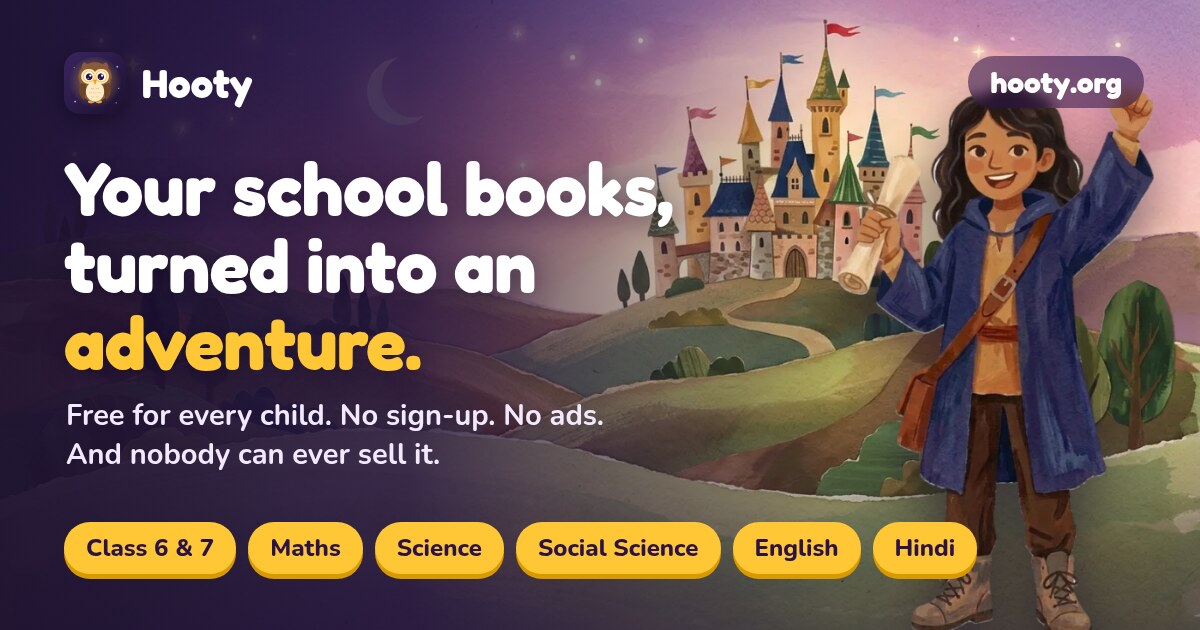
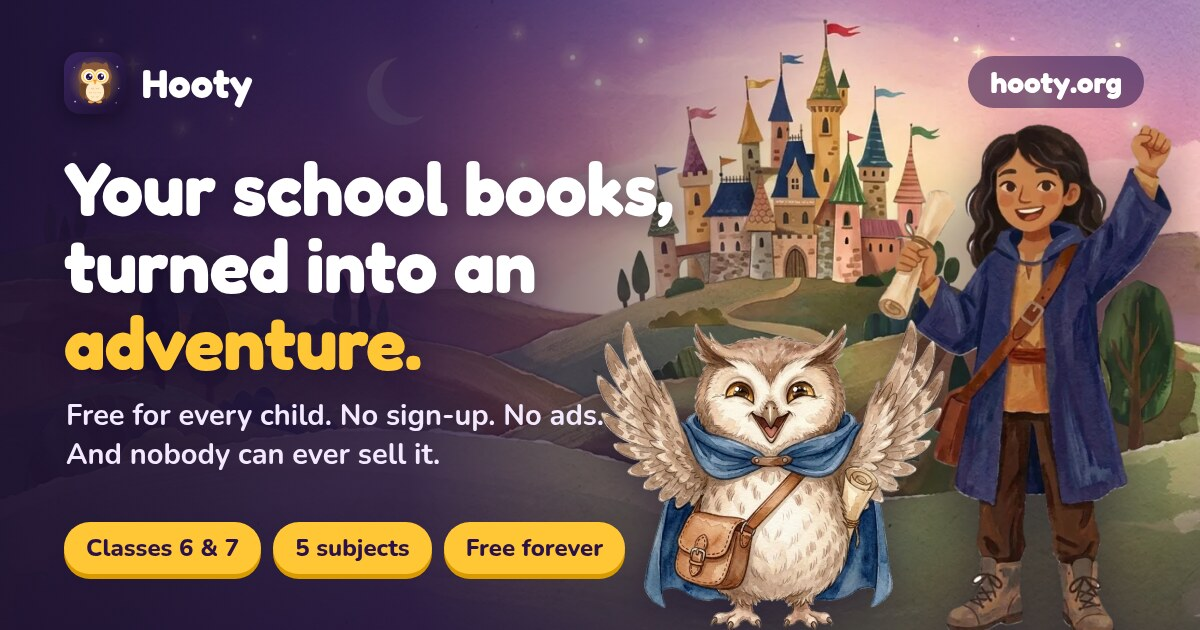
Add Hooty the owl as a second guide, chosen in Settings; sharing card with both characters

Changed region(s): [[0.1233, 0.1206, 0.9867, 1.0]]

diff --git a/public/engine/app.js b/public/engine/app.js
@@ -8,7 +8,7 @@ import { renderModel } from './core/models.js';
 import { state, boot, activeLearner, persist, addXP,
   heartsRegenerated, touchStreak, recordActivity, recordLesson, weakSpots,
   unlockReward, todayKey, exportSave, importSave } from './core/state.js';
-import { applyTheme, getTheme, themeAsset, assetFor, mascotImage, mascotAvatar, themeCopy } from './core/theme.js';
+import { applyTheme, getTheme, themeAsset, assetFor, mascotImage, mascotAvatar, themeCopy, setGuide, guideAvatarSrc } from './core/theme.js';
 import { t, setLocale, getLocale, availableLocales } from './core/i18n.js';
 import { getActivityModule } from './activities/index.js';
 import { icon } from './core/icons.js';
@@ -48,6 +48,7 @@ function applyLearnerPrefs() {
   document.body.classList.toggle('dyslexia-font', !!l.dyslexiaFont);
   document.body.classList.toggle('hl-on', l.highlight !== false);
   setLocale(l.lang || 'en');
+  setGuide(l.guide);
 }
 
 async function setTheme(id) {
@@ -1458,12 +1459,24 @@ function screenSettings() {
     render();
   });
 
+  const guidePicker = el('div', { class: 'guide-picker', role: 'radiogroup', 'aria-label': 'Your guide' },
+    [['hooty', 'Hooty'], ['lumi', 'Lumi']].map(([id, label]) => {
+      const on = (l?.guide || 'hooty') === id;
+      const b = el('button', { class: `guide-pick${on ? ' is-on' : ''}`, type: 'button', role: 'radio', 'aria-checked': String(on), 'aria-label': label }, [
+        el('img', { src: guideAvatarSrc(id), alt: '', width: '64', height: '64' }),
+        el('span', { text: label }),
+      ]);
+      b.addEventListener('click', async () => { l.guide = id; setGuide(id); await persist(); sound('tap'); render(); });
+      return b;
+    }));
+
   wrap.append(el('div', { class: 'settings' }, [
     row('Your name', null, nameField),
     row(t('sound'), 'Taps, chimes and a fanfare when you finish', soundSwitch),
     row(t('textSize'), 'Make everything bigger or smaller', range),
     row('Highlight key words', 'Important words get a marker-pen colour', hlSwitch),
     row(t('dyslexiaFont'), 'Wider, clearer letters', dysSwitch),
+    row('Your guide', 'Who walks beside you through every lesson', guidePicker),
     row(t('language'), null, langSel),
   ]));
 

diff --git a/public/engine/core/theme.js b/public/engine/core/theme.js
@@ -80,17 +80,29 @@ export function assetFor(theme, path) {
   return `${base}/${theme.id}/${path}`;
 }
 
+// Two guides walk beside the child. Hooty the owl is the default; Lumi the explorer is the original, kept as a choice.
+// The theme's own mascot paths still describe Lumi, so a theme can bring its own art without touching the owl.
+let guide = 'hooty';
+export function setGuide(g) { guide = g === 'lumi' ? 'lumi' : 'hooty'; }
+export function guideName() { return guide === 'lumi' ? 'Lumi' : 'Hooty'; }
+export function guideAvatarSrc(which, mood = 'idle') {
+  return which === 'lumi' ? `./characters/lumi/avatar-${mood}.webp` : `./characters/hooty/owl-avatar-${mood}.webp`;
+}
+
 export function mascotImage(mood = 'idle') {
-  if (!current?.mascot) return null;
+  if (!current) return null;
+  if (guide === 'hooty') return themeAsset(`../../characters/hooty/owl-${mood === 'happy' || mood === 'wrong' ? mood : 'idle'}.webp`);
+  if (!current.mascot) return null;
   const src = current.mascot[mood] || current.mascot.idle;
   return src ? themeAsset(src) : null;
 }
 
-// Round head-and-shoulders version of the same pose (avatar-<mood>.webp beside explorer-<mood>.webp),
-// padded so a circular frame never clips the hair.
+// Round head-and-shoulders version of the same pose (avatar-<mood>.webp beside explorer-<mood>.webp, or
+// owl-avatar-<mood>.webp beside owl-<mood>.webp), padded so a circular frame never clips the hair or the ears.
 export function mascotAvatar(mood = 'idle') {
   const full = mascotImage(mood);
-  return full ? full.replace(/explorer-/, 'avatar-') : null;
+  if (!full) return null;
+  return guide === 'hooty' ? full.replace(/owl-/, 'owl-avatar-') : full.replace(/explorer-/, 'avatar-');
 }
 
 export function themeCopy(tone, key, fallback = '') {

diff --git a/public/css/ui.css b/public/css/ui.css
@@ -1113,3 +1113,10 @@ button, a, input, select, label, summary, [role="button"], [role="tab"], [role="
 .addbook .finished__bar span { width: 0; transition: width 0.2s; }
 .addbook .finished__bar[hidden] { display: none; }
 .grade-tab--add { border-style: dashed; background: transparent; box-shadow: none; }
+
+/* ===== choose your guide ====================================================== */
+.guide-picker { display: flex; gap: var(--s3); }
+.guide-pick { display: flex; flex-direction: column; align-items: center; gap: 4px; padding: var(--s2) var(--s3); min-width: 88px; border-radius: var(--radius-lg); border: 3px solid transparent; background: var(--surface-alt, var(--surface)); color: var(--text); font: inherit; font-weight: 700; cursor: pointer; }
+.guide-pick img { width: 64px; height: 64px; border-radius: 50%; object-fit: cover; background: var(--bg); }
+.guide-pick.is-on { border-color: var(--primary); background: var(--primary-soft, var(--surface)); }
+.guide-pick:focus-visible { outline: 3px solid var(--text); outline-offset: 2px; }

diff --git a/public/engine/core/state.js b/public/engine/core/state.js
@@ -24,6 +24,7 @@ function freshLearner(name = 'Learner') {
     dailyXp: 0,
     dailyGoal: DAILY_GOAL_XP,
     theme: null,
+    guide: 'hooty',         // which character walks beside the child: 'hooty' (owl) or 'lumi' (explorer)
     lang: 'en',
     fontScale: 1,
     dyslexiaFont: false,
@@ -57,6 +58,7 @@ function normaliseLearner(raw, id) {
   }
   out.name = String(l.name ?? 'Learner').slice(0, 24) || 'Learner';
   out.days = Object.fromEntries(Object.entries(out.days).filter(([k, v]) => /^\d{4}-\d{2}-\d{2}$/.test(k) && Number.isFinite(v) && v >= 0).slice(-60));
+  if (out.guide !== 'lumi') out.guide = 'hooty';
   out.fontScale = Math.min(1.5, Math.max(0.85, out.fontScale || 1));
   // fields added after the first release
   if (typeof l.grade === 'string' || typeof l.grade === 'number') out.grade = String(l.grade).slice(0, 4);

diff --git a/README.md b/README.md
@@ -1,6 +1,6 @@
 <div align="center">
 
-<img src="public/characters/lumi/explorer-happy.webp" alt="Hooty, a cheerful young explorer in a blue coat, holding a scroll and punching the air" width="210">
+<img src="public/characters/hooty/owl-happy.webp" alt="Hooty, a friendly owl in a blue cape with a satchel and a scroll, wings raised in a cheer" width="260">
 
 # Hooty
 
@@ -18,9 +18,9 @@ No sign-up. No ads. Nothing a child does ever leaves their device.
 
 <img src="docs/readme/home.webp" alt="Hooty's home screen: a big Start button beside Hooty standing in front of a castle">
 
-## 🌟 Meet Hooty
+## 🌟 Meet your guide
 
-Hooty walks beside the child through every lesson. She asks a question that makes them curious, explains the idea in simple words, cheers when they get it, and shows them why when they don't.
+Hooty, the owl in the blue cape, walks beside the child through every lesson. Lumi, the young explorer, is there too, and each child can pick whichever guide they like in Settings. Either one asks a question that makes you curious, explains the idea in simple words, cheers when you get it, and shows you why when you don't.
 
 The aim is simple: a child should understand the idea, not just remember the sentence. And they should still be ready for their school exams.
 
@@ -114,7 +114,7 @@ To NCERT for the textbooks every lesson is built on, and to the photographers an
 
 <div align="center">
   <br>
-  <img src="public/characters/lumi/avatar-idle.webp" alt="Hooty's smiling face" width="84">
+  <img src="public/characters/hooty/owl-avatar-idle.webp" alt="Hooty's smiling face" width="84">
   <br>
   <sub>Made with love, for every child who ever asked "but why?"</sub>
 </div>
